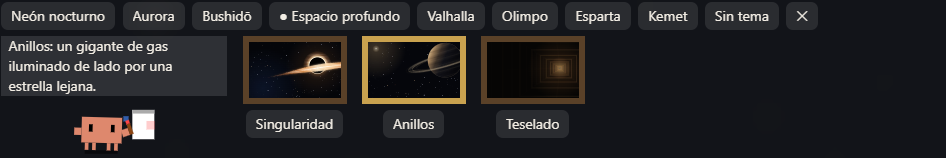
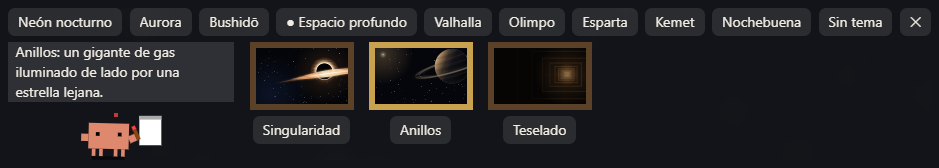
README: las capturas del Museo, con las nueve salas
- museo-espacio.png, rehecha: la fila de botones ya enseña las nueve salas, con Nochebuena al final.
- museo-nochebuena.png sustituye a museo-kemet.png: el Museo en la sala nueva, con Abeto, Aldea y Trineo en sus marcos de madera.
- Las dos capturas tienen el mismo encuadre y salen con el mismo ancho en el README.

diff --git a/README.md b/README.md
@@ -58,9 +58,9 @@ En todos, el centro de la escena queda despejado, porque ahí va la conversació
 ## Cómo se usa
 
 <p align="center">
-  <img src="imagenes/museo-espacio.png" width="820" alt="El Museo en la sala Espacio profundo: arriba, los botones de las ocho salas, Sin tema y la cruz que lo cierra; el Clawd pintor con su bocadillo, que dice cómo es Anillos; y los cuadros de Singularidad, Anillos y Teselado con sus placas, el de Anillos con el marco dorado">
+  <img src="imagenes/museo-espacio.png" width="820" alt="El Museo en la sala Espacio profundo: arriba, los botones de las nueve salas, Sin tema y la cruz que lo cierra; el Clawd pintor con su bocadillo, que dice cómo es Anillos; y los cuadros de Singularidad, Anillos y Teselado con sus placas, el de Anillos con el marco dorado">
   <br>
-  <img src="imagenes/museo-kemet.png" width="720" alt="El Museo en la sala Kemet, con los cuadros de Faraón, Anubis y Jeroglíficos en sus marcos de madera">
+  <img src="imagenes/museo-nochebuena.png" width="820" alt="El Museo en la sala Nochebuena, con los cuadros de Abeto, Aldea y Trineo en sus marcos de madera">
 </p>
 
 - `/tema` abre el Museo encima de la caja de texto, en la sala del tema que tengas puesto. Los botones de arriba cambian de sala, la placa de cada cuadro pone ese tema, «Sin tema» lo quita y la cruz lo cierra. El tema puesto lleva el marco dorado.
